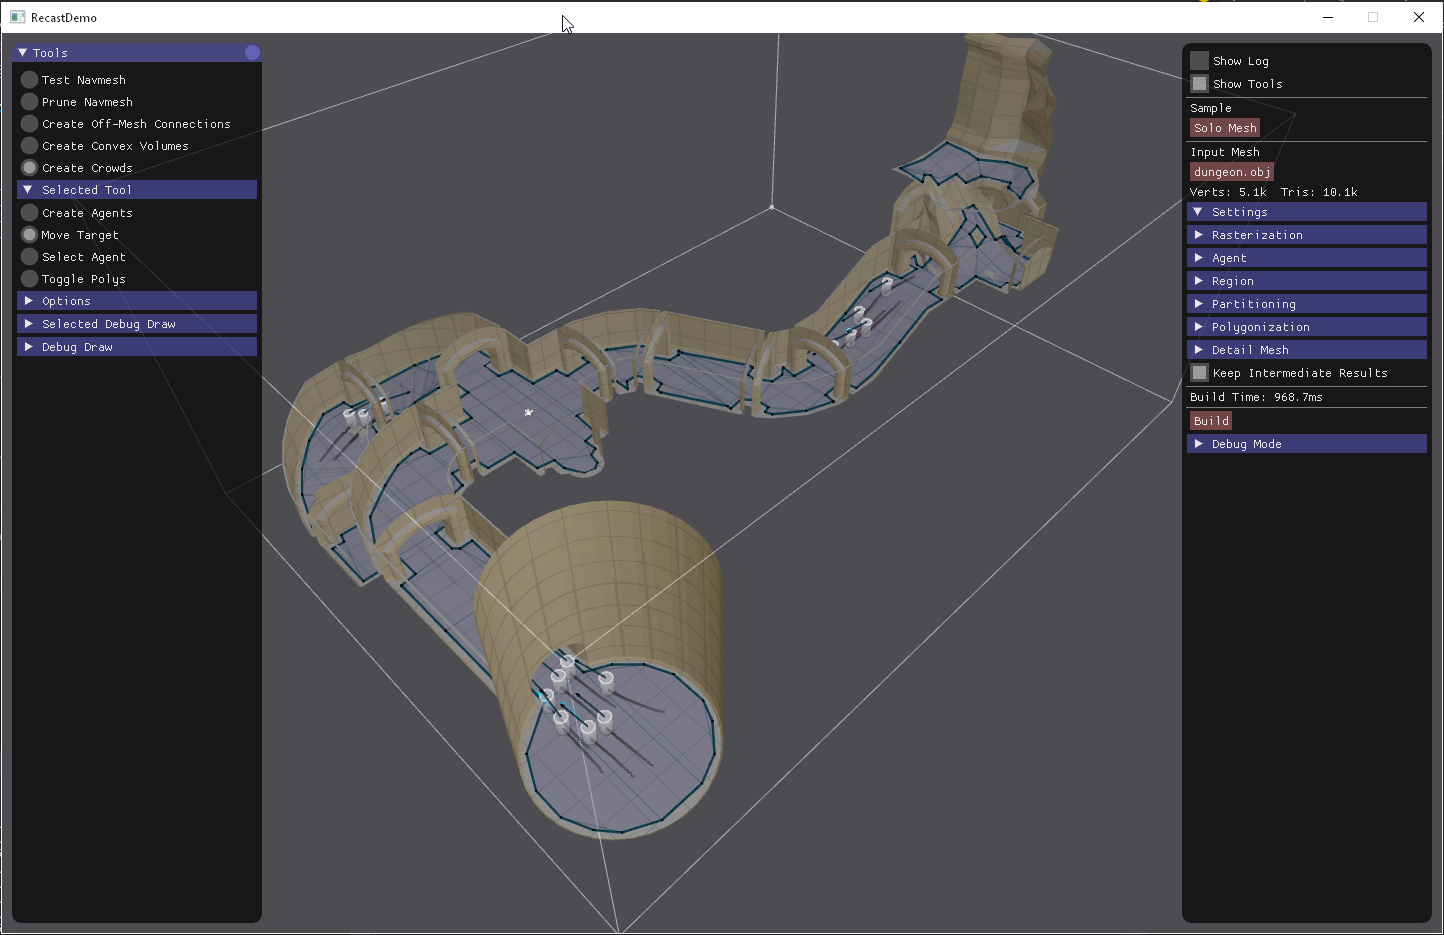
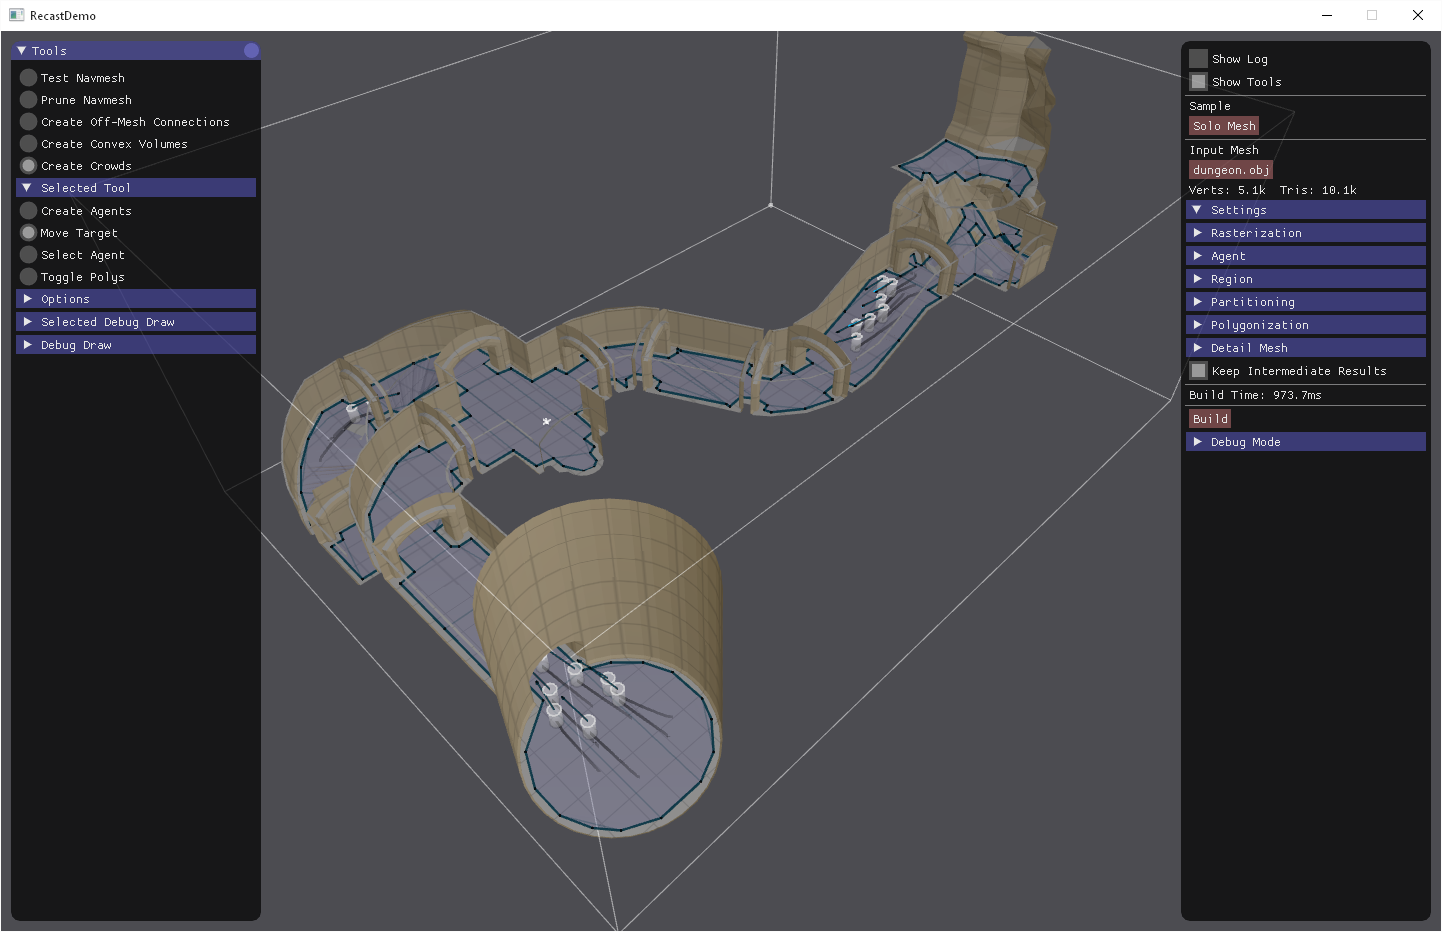
Removed the Badges again. Updated the Screenshot.

diff --git a/README.md b/README.md
@@ -2,11 +2,6 @@
 Recast & Detour
 ===============
 
-[![GitHub forks](https://img.shields.io/github/forks/badges/shields.svg?style=social&label=Fork)]()
-[![GitHub stars](https://img.shields.io/github/stars/badges/shields.svg?style=social&label=Star)]()
-[![GitHub watchers](https://img.shields.io/github/watchers/badges/shields.svg?style=social&label=Watch)]()
-[![GitHub followers](https://img.shields.io/github/followers/espadrine.svg?style=social&label=Follow)]()
-
 ![screenshot of a navmesh baked with the sample program](/RecastDemo/screenshot.png?raw=true)
 
 ## Recast
